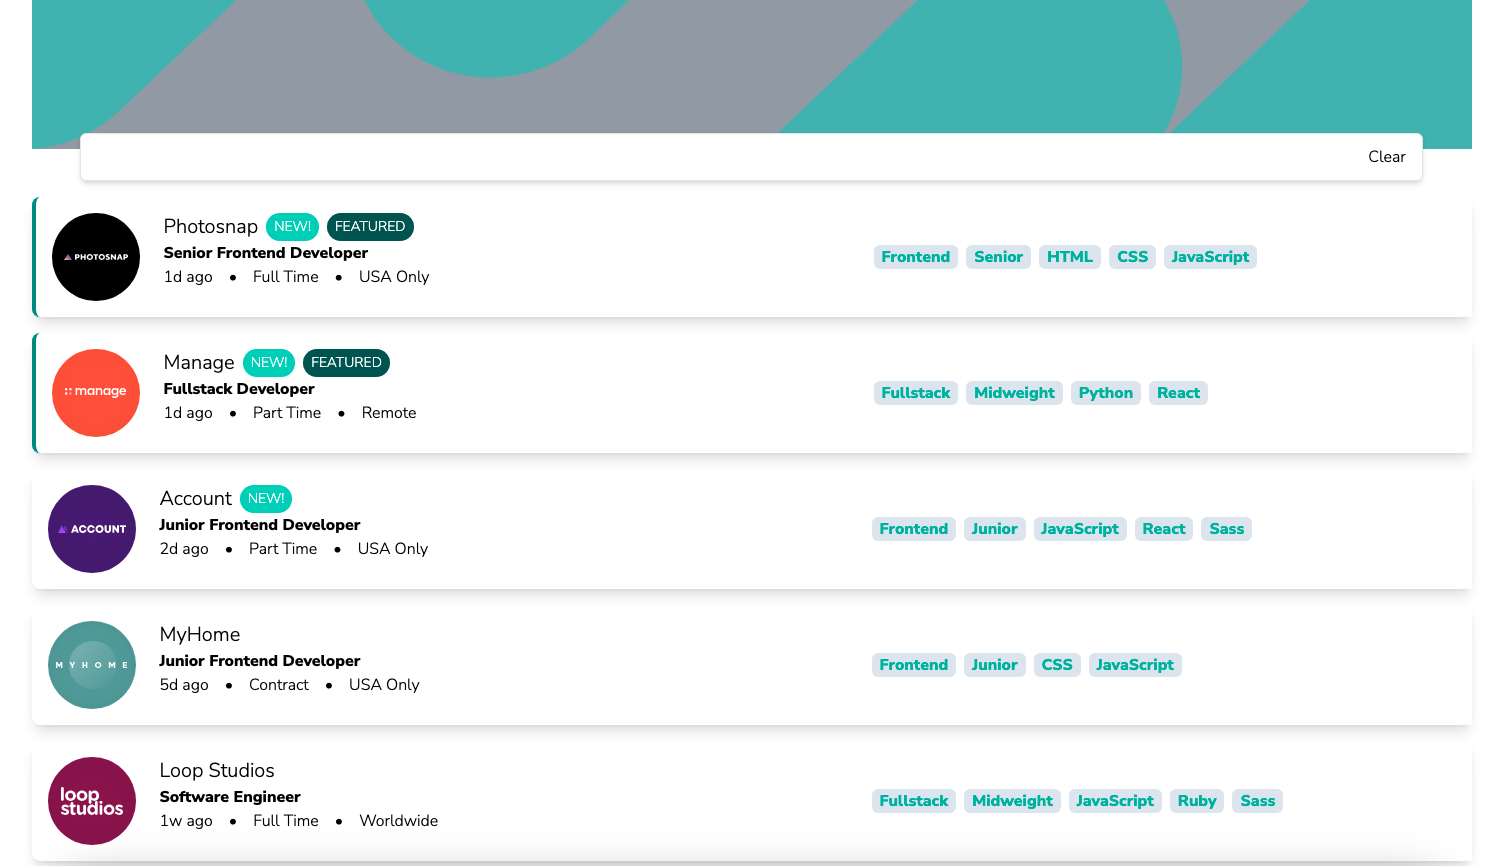
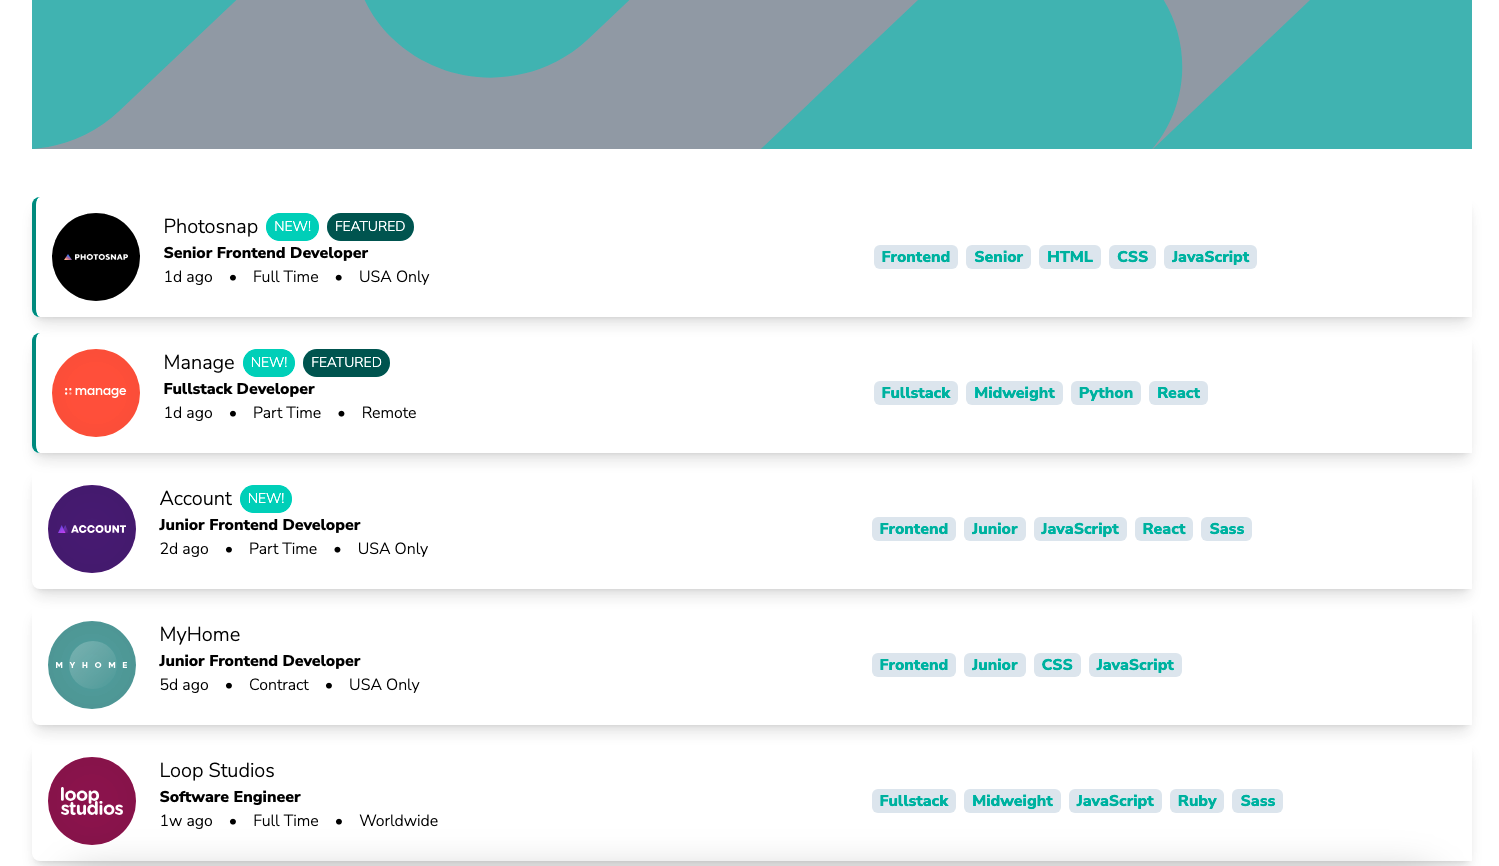
modified files

Changed region(s): [[0.0307, 0.1559, 0.9513, 0.2182]]

diff --git a/src/routes/+page.svelte b/src/routes/+page.svelte
@@ -79,6 +79,7 @@
     <div class="visible md:hidden">
       <img class="sticky bg-gray-400 w-full" src="/images/bg-header-mobile.svg" alt="bg" />
     </div>
+    {#if roleFilter || levelFilter || langs.length || tools.length}
     <div class="absolute shadow-md rounded-md px-4 mt-[-1rem] text-2 h-[3rem] md:w-[70%] w-full border mx-12 bg-white mt-6 p-1 flex items-center justify-between">
       <!-- <div class="flex gap-0"> -->
         {#if roleFilter}
@@ -102,6 +103,7 @@
         <button class="ml-auto" on:click={clearFilters}>Clear</button>
       <!-- </div> -->
     </div>
+    {/if}
   </div>
   <div class="my-12">
     {#each data.jobs.filter(f => filterRow(f)) as row}
